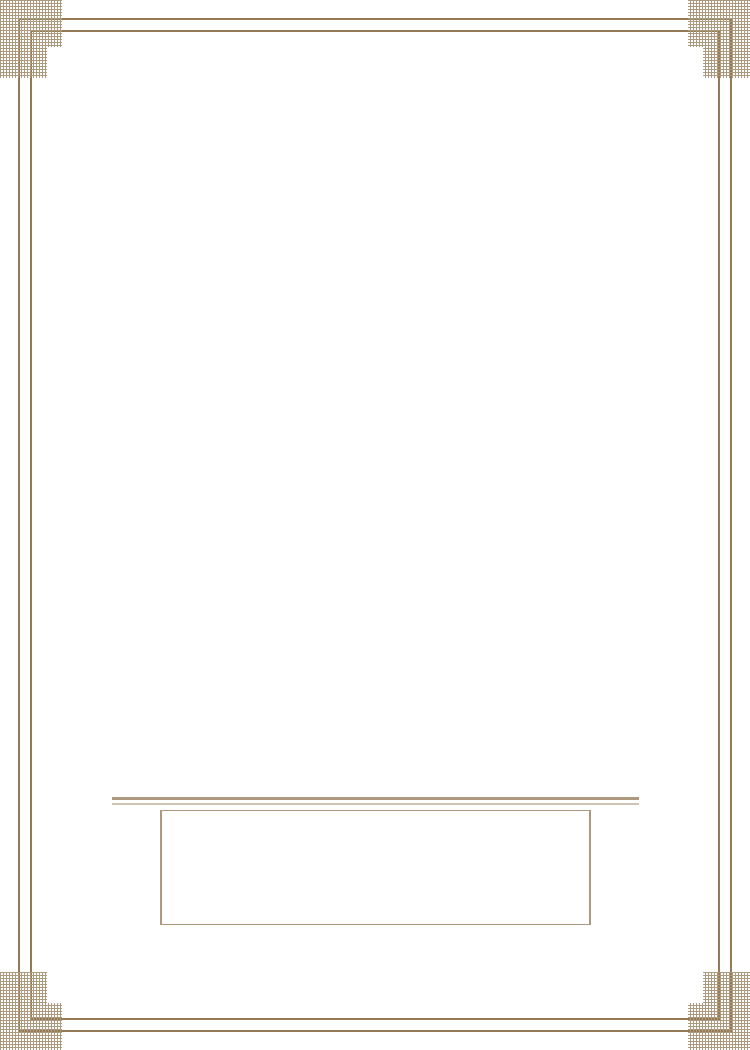
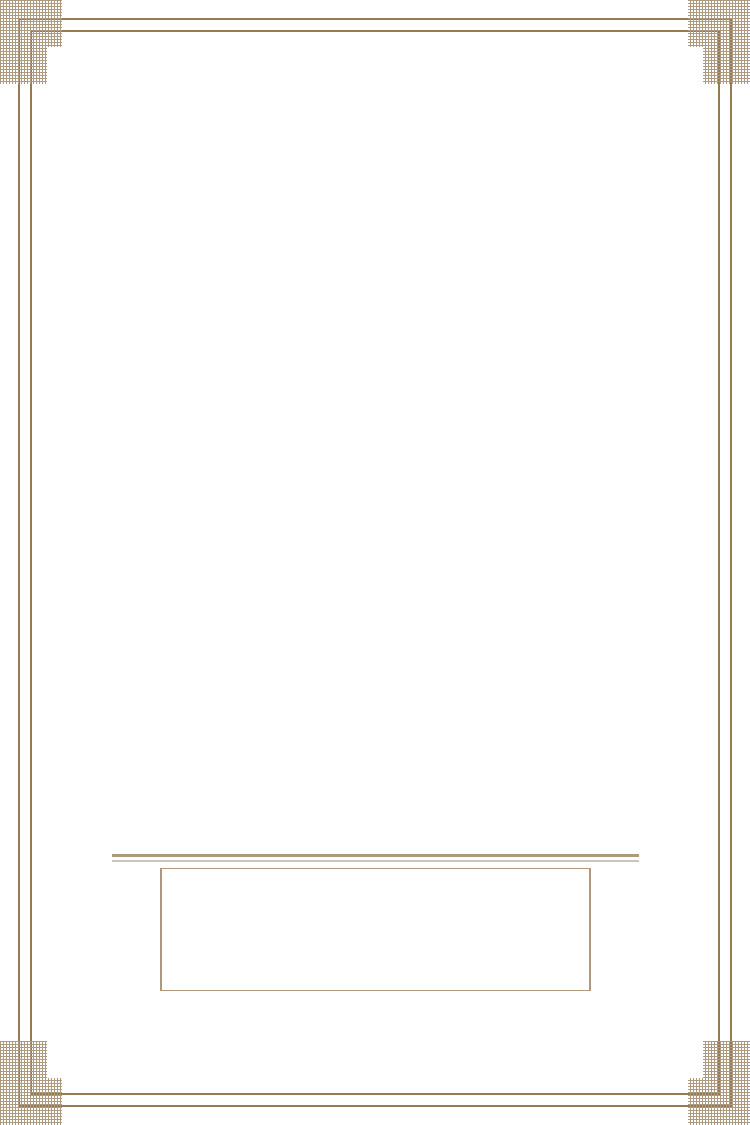
Set card format to 2:3

Changed region(s): [[0.0, 0.9143, 1.0, 1.0], [0.0, 0.0, 1.0, 0.0914]]

diff --git a/src/styles.css b/src/styles.css
@@ -82,7 +82,7 @@ button:disabled { cursor: wait; opacity: .56; }
 .preview-hint { color: #999184; font-size: 10px; }
 .resolution-badge { color: #9a9386; font-size: 9px; background: #eeebe5; border-radius: 3px; padding: 5px 7px; }
 .preview-stage { min-height: 505px; display: flex; align-items: center; justify-content: center; padding: 18px; background: #edeae4; border: 1px solid #e5e0d7; border-radius: 5px; background-image: radial-gradient(#d9d4ca 0.65px, transparent 0.65px); background-size: 12px 12px; }
-.card-preview-wrap { position: relative; width: min(100%, 334px); max-height: 470px; aspect-ratio: 5 / 7; box-shadow: 0 8px 22px #342c201c, 0 1px 3px #342c201a; overflow: hidden; touch-action: none; background: #f2ede3; }
+.card-preview-wrap { position: relative; width: min(100%, 313px); max-height: 470px; aspect-ratio: 2 / 3; box-shadow: 0 8px 22px #342c201c, 0 1px 3px #342c201a; overflow: hidden; touch-action: none; background: #f2ede3; }
 .preview-canvas { display: block; width: 100%; height: 100%; object-fit: contain; }
 .preview-canvas.has-illustration { cursor: grab; }
 .preview-canvas.dragging { cursor: grabbing; }
@@ -133,7 +133,7 @@ button:disabled { cursor: wait; opacity: .56; }
   .workspace { grid-template-columns: 244px minmax(600px, 1fr) 300px; }
   .editor-pane { padding-left: 52px; padding-right: 52px; }
   .preview-stage { min-height: 560px; }
-  .card-preview-wrap { width: min(100%, 366px); max-height: 520px; }
+  .card-preview-wrap { width: min(100%, 346px); max-height: 520px; }
 }
 @media (max-width: 1080px) {
   .workspace { grid-template-columns: 185px minmax(410px, 1fr) 245px; }
@@ -179,7 +179,7 @@ button:disabled { cursor: wait; opacity: .56; }
   .preview-hint { font-size: 9px; }
   .resolution-badge { font-size: 7px; white-space: nowrap; }
   .preview-stage { min-height: 0; padding: 12px; }
-  .card-preview-wrap { width: min(100%, 320px); max-height: none; }
+  .card-preview-wrap { width: min(100%, 300px); max-height: none; }
   .empty-upload { min-height: 80px; }
   .editor-actions { gap: 8px; }
   .editor-actions .button { min-width: 0; flex: 1; padding: 0 8px; font-size: 10px; }

diff --git a/src/App.tsx b/src/App.tsx
@@ -4,7 +4,8 @@ import { CARD_TEMPLATE } from './template';
 import type { CardData, ProjectDocument, StoredAsset } from './types';
 import { deleteAsset, getAsset, loadProject, replaceProjectAndAssets, saveAsset, saveProject } from './lib/database';
 import { exportCardPng, composeCard } from './lib/renderer';
-import { validateImageFile } from './lib/files';
+import { imageFromBlob, validateImageFile } from './lib/files';
+import { matchesAspectRatio } from './lib/geometry';
 import { exportProjectZip, importProjectZip, isKnownTemplateVersion } from './lib/projectArchive';
 
 const displayNumber = (number: number) => String(number).padStart(2, '0');
@@ -100,6 +101,12 @@ export default function App() {
     if (!file || !project) return;
     try {
       validateImageFile(file, kind);
+      if (kind === 'frame') {
+        const image = await imageFromBlob(file);
+        if (!matchesAspectRatio(image.naturalWidth, image.naturalHeight, CARD_TEMPLATE.canvas.width / CARD_TEMPLATE.canvas.height)) {
+          throw new Error('A moldura PNG precisa ter proporção 2:3 para manter a geometria da carta.');
+        }
+      }
       if (kind === 'illustration' && currentCard.approvalStatus === 'approved') {
         throw new Error('Esta carta está aprovada. Altere o status para Rascunho antes de substituir a ilustração.');
       }

diff --git a/src/template.ts b/src/template.ts
@@ -5,14 +5,14 @@ import type { CardTemplate } from './types';
  * física de impressão implícita. A moldura é sempre desenhada no canvas inteiro.
  */
 export const CARD_TEMPLATE: CardTemplate = {
-  version: 'provisional-1',
+  version: 'provisional-2',
   provisional: true,
-  canvas: { width: 750, height: 1050 },
+  canvas: { width: 750, height: 1125 },
   framePath: '/template/moldura-provisoria.png',
-  illustration: { x: 74, y: 112, width: 602, height: 650 },
+  illustration: { x: 74, y: 120, width: 602, height: 696 },
   text: {
-    number: { x: 375, y: 78, maxWidth: 120, align: 'center', font: '700 34px Georgia, serif', color: '#33291f' },
-    title: { x: 375, y: 830, maxWidth: 550, align: 'center', font: '700 42px Georgia, serif', color: '#33291f' },
-    reference: { x: 375, y: 890, maxWidth: 530, align: 'center', font: '400 24px Georgia, serif', color: '#57483a' },
+    number: { x: 375, y: 84, maxWidth: 120, align: 'center', font: '700 34px Georgia, serif', color: '#33291f' },
+    title: { x: 375, y: 890, maxWidth: 550, align: 'center', font: '700 42px Georgia, serif', color: '#33291f' },
+    reference: { x: 375, y: 954, maxWidth: 530, align: 'center', font: '400 24px Georgia, serif', color: '#57483a' },
   },
 };

diff --git a/src/lib/renderer.test.ts b/src/lib/renderer.test.ts
@@ -15,7 +15,7 @@ describe('PNG composition', () => {
     const canvas = { width: 0, height: 0, getContext: vi.fn(() => context), toBlob: (cb: BlobCallback) => cb(new Blob(['png'], { type: 'image/png' })) } as unknown as HTMLCanvasElement;
     vi.spyOn(document, 'createElement').mockImplementation((tag: string) => tag === 'canvas' ? canvas : document.createElement(tag));
     vi.stubGlobal('Image', class {
-      naturalWidth = 300; naturalHeight = 400; onload: (() => void) | null = null;
+      naturalWidth = 750; naturalHeight = 1125; onload: (() => void) | null = null;
       set src(_value: string) { queueMicrotask(() => this.onload?.()); }
     });
     vi.stubGlobal('URL', { ...URL, createObjectURL: vi.fn(() => 'blob:test'), revokeObjectURL: vi.fn() });
@@ -26,7 +26,8 @@ describe('PNG composition', () => {
     });
     expect(result.type).toBe('image/png');
     expect(canvas.width).toBe(750);
-    expect(canvas.height).toBe(1050);
+    expect(canvas.height).toBe(1125);
+    expect(canvas.width / canvas.height).toBe(2 / 3);
     expect(calls.indexOf('clip')).toBeLessThan(calls.lastIndexOf('draw-image'));
     expect(context.drawImage).toHaveBeenCalledTimes(2);
     expect(context.fillText).toHaveBeenCalledTimes(3);

diff --git a/src/lib/geometry.test.ts b/src/lib/geometry.test.ts
@@ -1,5 +1,5 @@
 import { describe, expect, it } from 'vitest';
-import { clampZoom, getImageDrawRect, validateRect } from './geometry';
+import { clampZoom, getImageDrawRect, matchesAspectRatio, validateRect } from './geometry';
 
 describe('geometry helpers', () => {
   it('covers the fixed illustration region and centers the image', () => {
@@ -18,5 +18,9 @@ describe('geometry helpers', () => {
   it('validates template coordinates against canvas bounds', () => {
     expect(validateRect({ x: 10, y: 15, width: 20, height: 30 }, { width: 40, height: 50 })).toBe(true);
     expect(validateRect({ x: 25, y: 15, width: 20, height: 30 }, { width: 40, height: 50 })).toBe(false);
+  });
+  it('accepts only frame images that match the configured 2:3 ratio', () => {
+    expect(matchesAspectRatio(750, 1125, 2 / 3)).toBe(true);
+    expect(matchesAspectRatio(750, 1050, 2 / 3)).toBe(false);
   });
 });

diff --git a/src/lib/renderer.ts b/src/lib/renderer.ts
@@ -1,5 +1,5 @@
 import type { CardData, CardTemplate, ImageTransform } from '../types';
-import { getImageDrawRect } from './geometry';
+import { getImageDrawRect, matchesAspectRatio } from './geometry';
 import { imageFromBlob, imageFromUrl } from './files';
 
 export interface ComposeOptions {
@@ -36,6 +36,9 @@ export async function composeCard(options: ComposeOptions): Promise<HTMLCanvasEl
   }
 
   const frameImage = frame ? await imageFromBlob(frame) : await imageFromUrl(template.framePath);
+  if (!matchesAspectRatio(frameImage.naturalWidth, frameImage.naturalHeight, canvas.width / canvas.height)) {
+    throw new Error('A moldura precisa estar na mesma proporção 2:3 da carta.');
+  }
   // Moldura cobre o canvas completo sem uma transformação independente.
   context.drawImage(frameImage, 0, 0, canvas.width, canvas.height);
 

diff --git a/src/lib/geometry.ts b/src/lib/geometry.ts
@@ -31,3 +31,8 @@ export function validateRect(rect: Rect, canvas: { width: number; height: number
     && rect.x + rect.width <= canvas.width
     && rect.y + rect.height <= canvas.height;
 }
+
+export function matchesAspectRatio(width: number, height: number, ratio: number, tolerance = 0.001): boolean {
+  if (![width, height, ratio, tolerance].every(Number.isFinite) || width <= 0 || height <= 0 || ratio <= 0) return false;
+  return Math.abs(width / height - ratio) <= tolerance;
+}

diff --git a/README.md b/README.md
@@ -35,7 +35,7 @@ Cartas marcadas como **Aprovada** não aceitam substituição de ilustração at
 
 ## Template
 
-`src/template.ts` contém a resolução de trabalho (750 × 1050 px), a região da imagem, as coordenadas de texto, fontes, cores e limites de largura. Esses pixels são valores provisórios para desenvolvimento e **não representam dimensões físicas de impressão nem aprovação visual**. `public/template/moldura-provisoria.png` é apenas uma guia geométrica simples. Ajuste o template com a moldura definitiva e aprovação visual antes de produzir cartas finais.
+`src/template.ts` contém a resolução de trabalho (750 × 1125 px, proporção 2:3), a região da imagem, as coordenadas de texto, fontes, cores e limites de largura. Esses pixels são valores provisórios para desenvolvimento e **não representam dimensões físicas de impressão nem aprovação visual**. `public/template/moldura-provisoria.png` é apenas uma guia geométrica simples. Ajuste o template com a moldura definitiva e aprovação visual antes de produzir cartas finais.
 
 ## Testes
 
